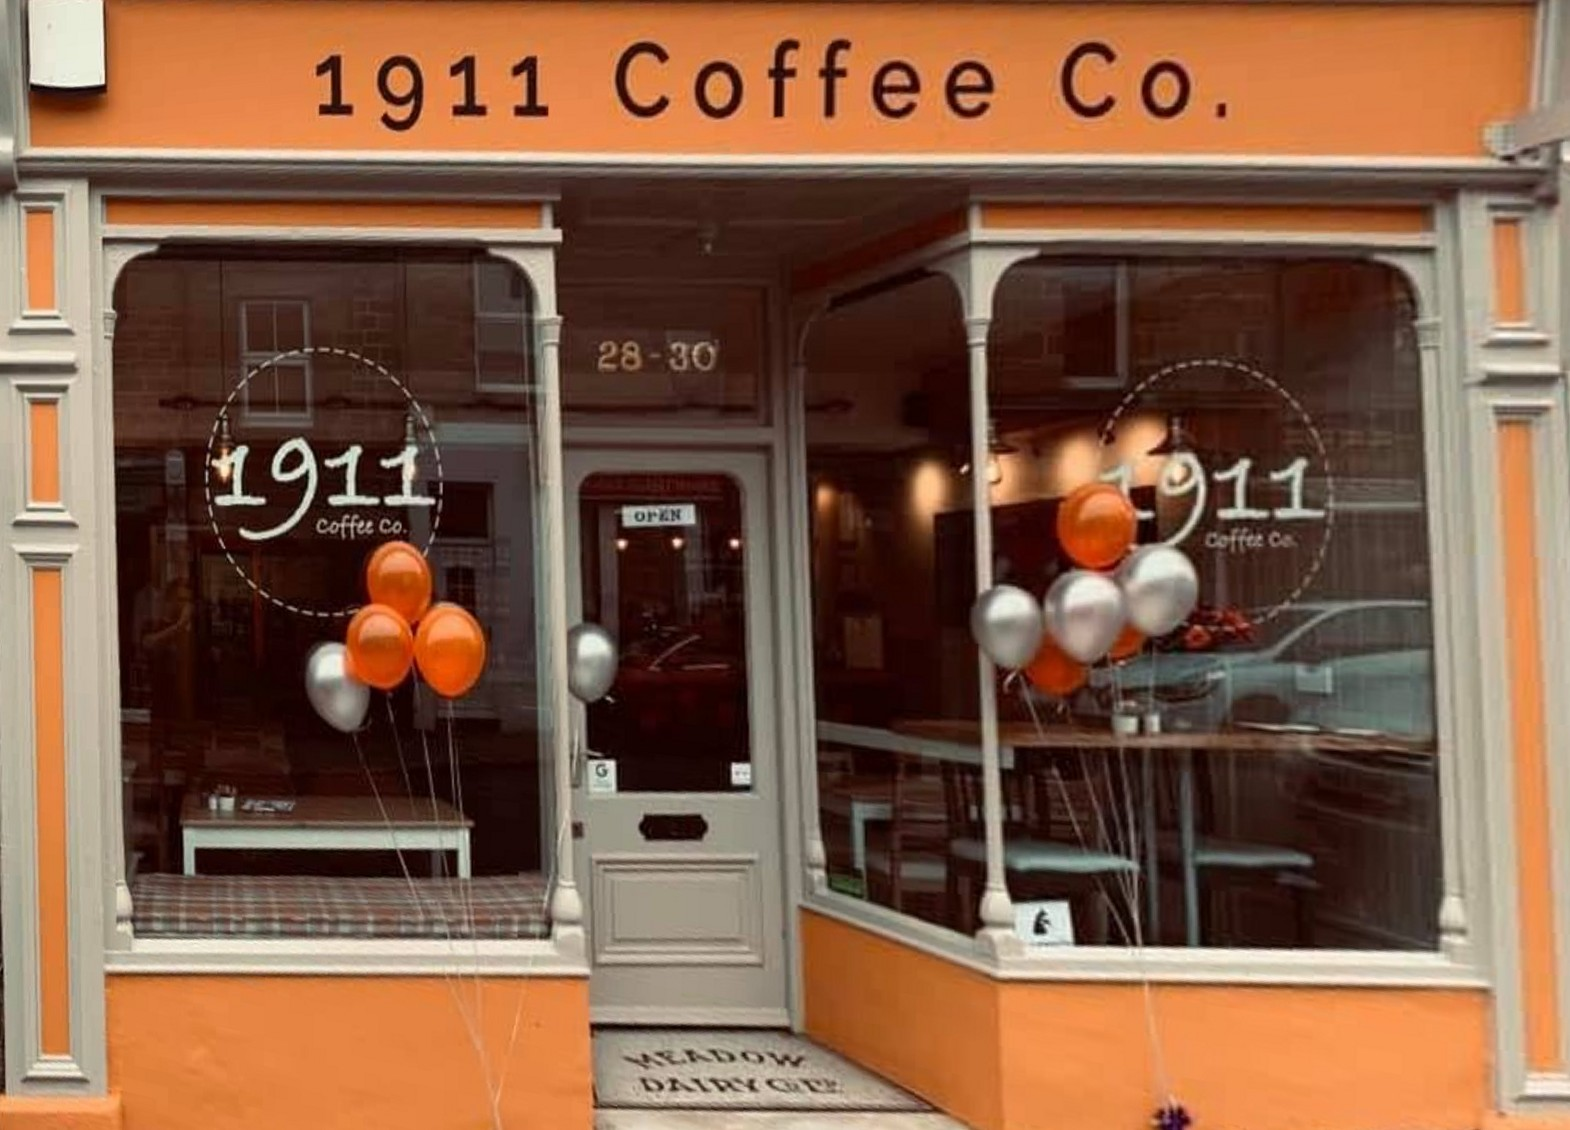
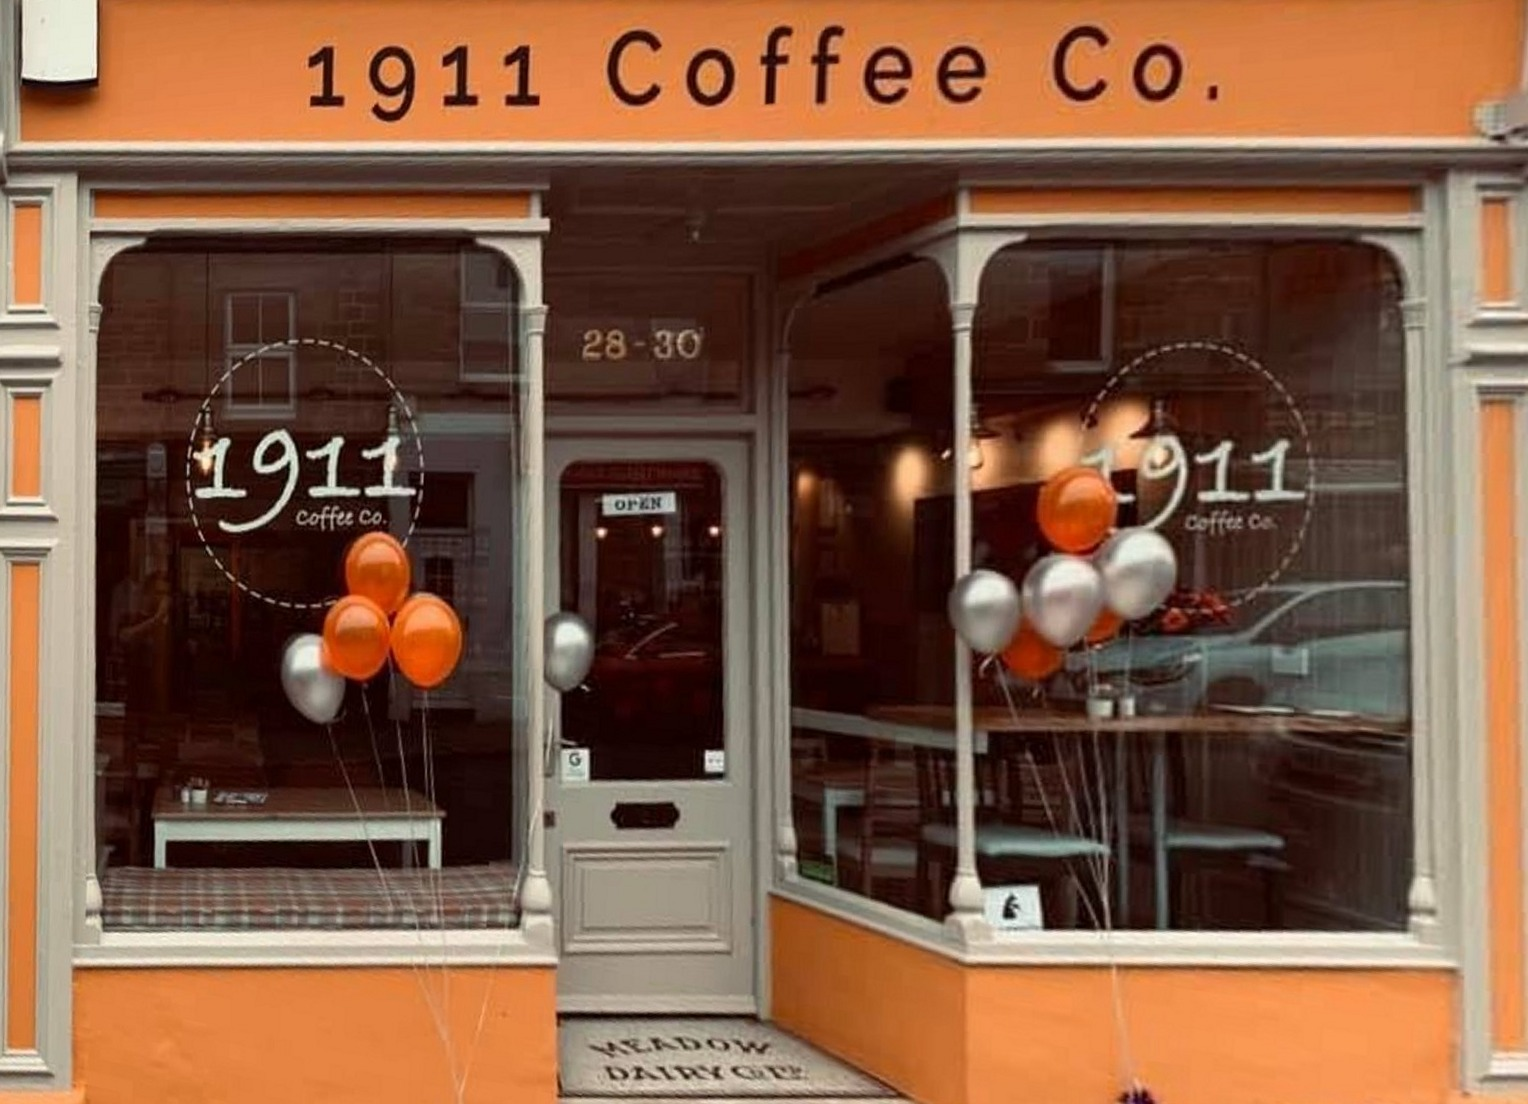
Hanging sign, straight shopfront, Amble section
- Sign is now a flat card on a string: swings and flips on hover, tap or focus
- Shopfront corrected for its remaining lean so the verticals are true
- Cakes-and-soup section replaced with one about Amble (harbour, Coquet
  Island, beaches, Warkworth), with an original island-and-lighthouse drawing
- Schoolbell and Fredericka fonts removed

Claude-Session: https://claude.ai/code/session_01UmHTVaDwfh4Rgi6bQTxqck

diff --git a/src/assets/photos/CREDITS.md b/src/assets/photos/CREDITS.md
@@ -11,7 +11,7 @@ All nine photos are 1911 Coffee Co.'s own, taken from their public social accoun
 | cakes.jpg | Instagram @1911coffeeco, post of 1 May 2026 | Raspberry and coconut sponge, espresso machine behind |
 | menu.jpg | Instagram @1911coffeeco, post of 15 Apr 2026 | Sandwich, coleslaw and salad on slate |
 | story.jpg | Facebook 1911 Coffee Co., cover photo of 18 Mar 2020 | Window logo at dusk with hanging lights (cropped) |
-| findus.jpg | Facebook 1911 Coffee Co., cover photo of 13 Apr 2023 | The shopfront at 28–30 Queen Street, perspective straightened |
+| findus.jpg | Facebook 1911 Coffee Co., cover photo of 13 Apr 2023 | The shopfront at 28–30 Queen Street, perspective and lean straightened |
 | fruitloaf.jpg | 1911 Coffee Co. social accounts, Oct 2026 (exact post to record) | Toasted fruit bread with butter and jam |
 | soup.jpg | 1911 Coffee Co. social accounts, Oct 2026 (exact post to record) | Soup with a bread roll and butter |
 | salad.jpg | 1911 Coffee Co. social accounts, Oct 2026 (exact post to record) | Salad plate with beetroot and red cabbage |
